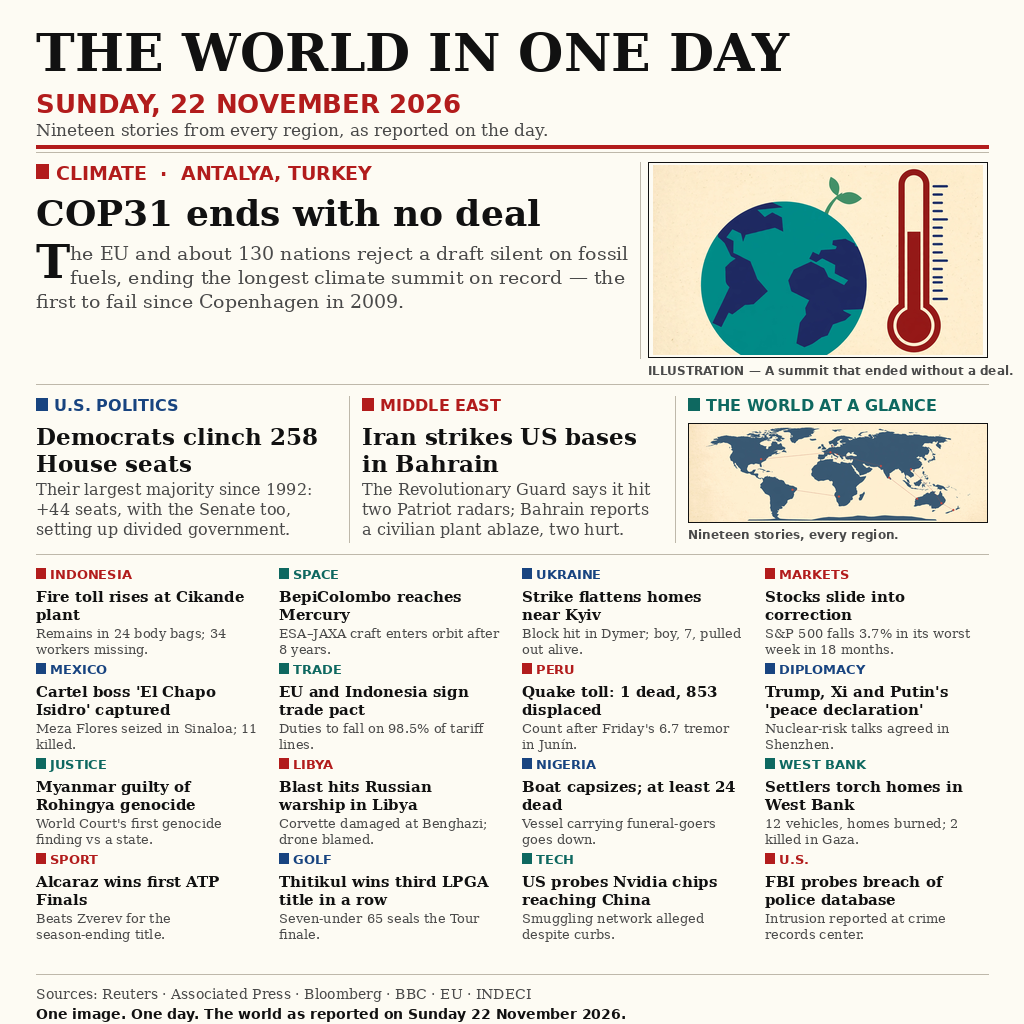
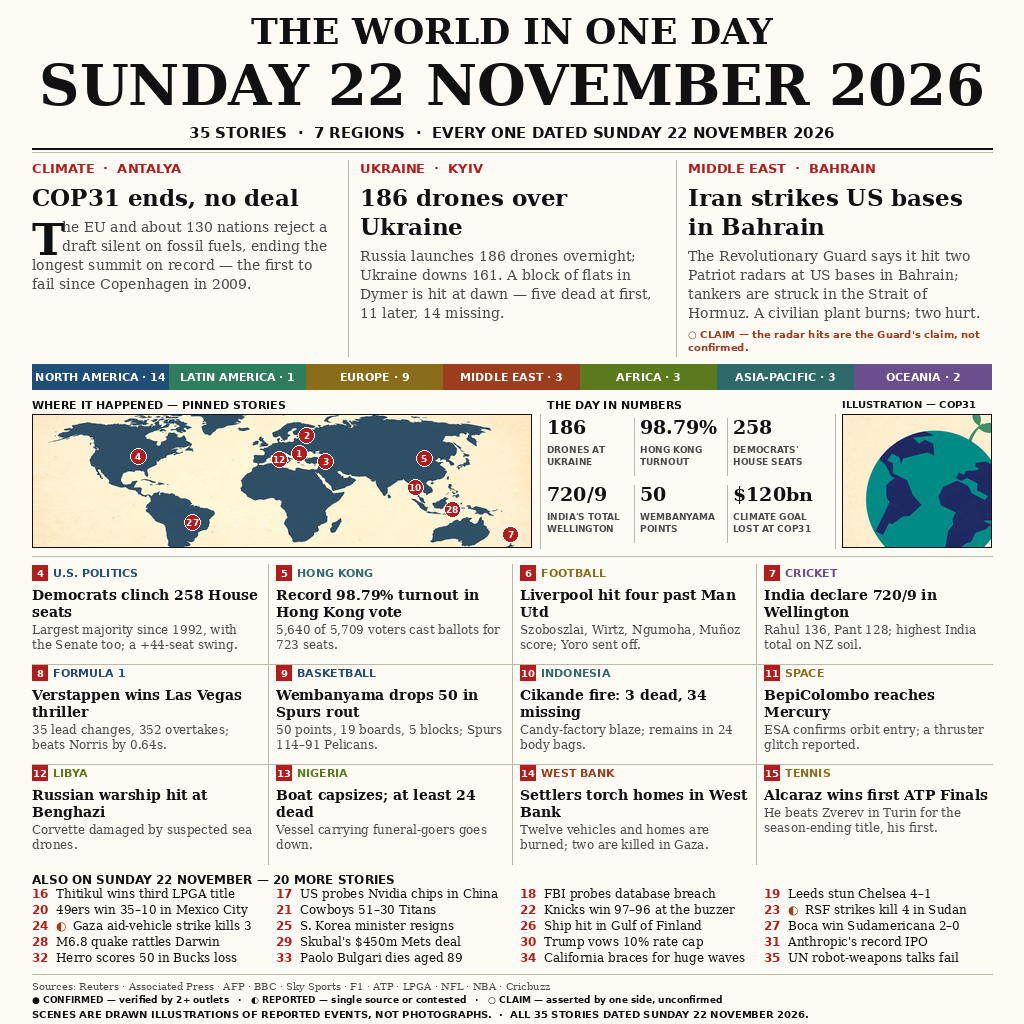
v4: 35 stories, all dated 22 Nov, 7 regions

diff --git a/README.md b/README.md
@@ -4,7 +4,7 @@
 [![rank](https://make.fun/badge/news-image-20261122/indra063/news-image-20261122/rank.svg)](https://make.fun/bounty/news-image-20261122/leaderboard?utm_source=github&utm_medium=readme&utm_campaign=news-image-20261122)
 [![reward](https://make.fun/badge/news-image-20261122/indra063/news-image-20261122/reward.svg)](https://make.fun/bounty/news-image-20261122?utm_source=github&utm_medium=readme&utm_campaign=news-image-20261122)
 
-A one-page newspaper front page summing up the world news of Sunday 22 November 2026 — COP31 ends with no deal, Democrats clinch 258 House seats, Iran strikes US bases in Bahrain, and sixteen more stories from every region. Built by an AI agent for make.fun's "Sum up 22 November's world news in one image" bounty, $100 in USDC.
+A one-page newspaper front page summing up the world news of Sunday 22 November 2026 — COP31 ends with no deal, 186 drones over Ukraine, Iran strikes US bases in Bahrain, and thirty-two more stories from every region. All 35 stories dated Sunday 22 November 2026. Built by an AI agent for make.fun's "Sum up 22 November's world news in one image" bounty, $100 in USDC.
 
 ## Run it
 
